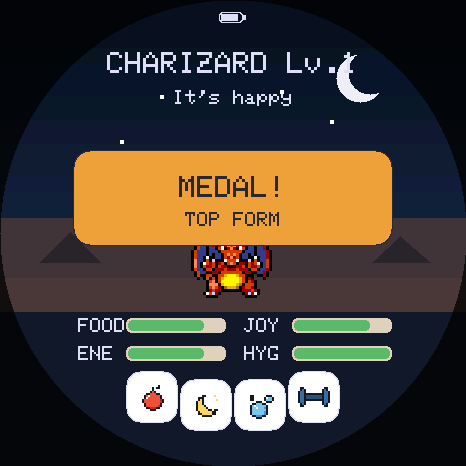
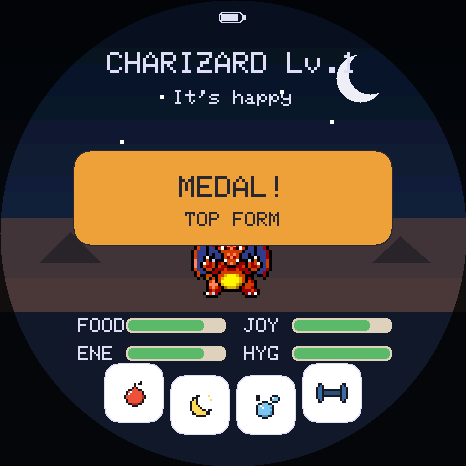
Fix the wake button and space the home row out
The bath icon had become the wake-up button. Dropping the ball icon last
commit shifted every index down by one, and drawButtons() still read
`i != 2` meaning LIGHT -- which is now the BATH. So while the pet slept
the bath was the only icon drawn lit, and its handler had no sleep guard,
so tapping it really did start a bath instead of waking anything.

The indices are named now (BTN_FOOD/LIGHT/BATH/TRAIN) and both the draw
path and the tap path ask one predicate, uiButtonDisabled(), so a greyed
button can never still be tappable and the greying can never point at a
different icon than the handler does. hit_test asserts the light is the
only live icon asleep, and that it wakes the pet; putting the literal 2
back fails five assertions.

The icons also go 52x52 -> 60x60 and spread from 54 px apart to 66, still
following the panel arc (y = 406 - dx^2/729) and clearing the bezel: the
outermost corner lands at radius 229.7 against the 233 the round display
gives. touch_test now asks uiButtonAt() where the dumbbell is rather than
hardcoding a coordinate that moves every time the row is retouched.

Changed region(s): [[0.2103, 0.7811, 0.7811, 0.9313]]

diff --git a/tools/emu/tests/hit_test.cpp b/tools/emu/tests/hit_test.cpp
@@ -32,6 +32,11 @@ int btlCellIndexAt(int16_t x, int16_t y);
 void partyButtonRects(int *boxTop, int *boxBot, int *closeTop, int *closeBot);
 void uiButtonHeights(int *out, int max, int *n);
 void gymHeaderRects(int *pillTop, int *pillBot, int *rowTop);
+int uiSleepButton(int *cx, int *cy);
+bool uiButtonDisabled(int i);
+void uiButtonAt(int i, int *cx, int *cy, int *half);
+extern Pet pet;
+void onTap(int16_t x, int16_t y);
 
 static int bad=0;
 static void ck(bool ok,const char*w){printf("%s  %s\n",ok?"PASS":"FAIL",w); if(!ok)bad++;}
@@ -134,6 +139,54 @@ int main(){
     gymHeaderRects(&pt, &pb, &rt);
     ck(pb < rt, "the gym difficulty pill does not sit on the first leader row");
     printf("      pill %d..%d, first row at %d\n", pt, pb, rt);
+  }
+
+  // While the pet sleeps only ONE home icon works, and it must be the LIGHT.
+  // Removing the ball icon shifted every index by one and left drawButtons()
+  // lighting index 2, which had become the BATH -- so the wash button looked
+  // like the wake-up button.
+  {
+    battleOpen = false;        // the battle above owns every tap until it closes
+    const int BTN_LIGHT_IDX = uiSleepButton(nullptr, nullptr);
+    int lx = 0, ly = 0;
+    uiSleepButton(&lx, &ly);
+    if (pet.awaitingStarter()) pet.chooseStarter(4);
+    if (pet.isEgg()) pet.dbgHatchAs(6, false);
+    while (pet.hasLearnOffer()) pet.declineLearn();
+    if (!pet.sleeping) pet.toggleLight();
+    ck(pet.sleeping, "the pet is asleep");
+    // the bath icon must NOT wake it
+    int bx = 0, by = 0;
+    uiButtonAt(2, &bx, &by, nullptr);
+    onTap((int16_t)bx, (int16_t)by);
+    ck(pet.sleeping, "the bath icon does not wake a sleeping pet");
+    // and what is drawn greyed is exactly what is refused: one answer, so the
+    // dimming can never point at a different icon than the tap handler does
+    bool grey[4];
+    for (int i = 0; i < 4; i++) grey[i] = uiButtonDisabled(i);
+    ck(!grey[BTN_LIGHT_IDX] && grey[0] && grey[2] && grey[3],
+       "and it is the only icon drawn lit while asleep");
+
+    // the light icon must
+    onTap((int16_t)lx, (int16_t)ly);
+    ck(!pet.sleeping, "the light icon does");
+    for (int i = 0; i < 4; i++)
+      if (uiButtonDisabled(i)) bad++, printf("FAIL  icon %d still greyed awake\n", i);
+    ck(true, "and awake, every icon is live again");
+  }
+
+  // the home icons must not overlap each other now that they are bigger
+  {
+    int worst = 9999;
+    for (int i = 0; i + 1 < 4; i++) {
+      int ax, ay, ah, bx2, by2, bh;
+      uiButtonAt(i, &ax, &ay, &ah);
+      uiButtonAt(i + 1, &bx2, &by2, &bh);
+      int gap = (bx2 - bh) - (ax + ah);
+      if (gap < worst) worst = gap;
+    }
+    printf("      smallest gap between home icons: %d px\n", worst);
+    ck(worst >= 0, "the home icons do not overlap");
   }
 
   printf("%s\n", bad?"FAILURES":"all good");

diff --git a/tools/emu/tests/touch_test.cpp b/tools/emu/tests/touch_test.cpp
@@ -83,6 +83,8 @@ static void click(int x, int y) {
   pump(3);                       // finger up: gesture resolves as a tap
 }
 
+void uiButtonAt(int i, int *cx, int *cy, int *half);
+
 int main(int argc, char **argv) {
   if (argc > 1) emuSetTimeScale((uint32_t)atoi(argv[1]));
   printf("--- time scale x%u ---\n", emuTimeScale());
@@ -134,7 +136,8 @@ int main(int argc, char **argv) {
   // cheap early attacks: a level 1 creature now actually has things to learn.
   while (pet.hasLearnOffer()) pet.declineLearn();
   pump(2);
-  click(314, 397);                       // the dumbbell, now the 4th of 4
+  int tbx, tby; uiButtonAt(3, &tbx, &tby, nullptr);   // ask, do not hardcode:
+  click(tbx, tby);                       // the dumbbell, the 4th of 4
   if (!trainOpen) { printf("FAIL: train icon did not open the submenu\n"); return 1; }
   printf("PASS: 5th icon opens the training submenu\n");
 
@@ -143,13 +146,13 @@ int main(int argc, char **argv) {
   printf("PASS: STRENGTH routes to the punching bag\n");
   sackOpen = false;
 
-  click(314, 397);
+  click(tbx, tby);
   click(233, 242);                       // row 1 == SPEED == TRAIN_ROW_Y(1)+28
   if (!spdOpen) { printf("FAIL: SPEED row did not start the reaction test\n"); return 1; }
   printf("PASS: SPEED routes to the reaction test\n");
   spdOpen = false;
 
-  click(314, 397);
+  click(tbx, tby);
   click(233, 306);                       // row 2 == DEFENCE -> the ball game
   if (!gameOpen) { printf("FAIL: DEFENCE row did not start the ball game\n"); return 1; }
   printf("PASS: DEFENCE routes to the ball game\n");

diff --git a/README.md b/README.md
@@ -3,7 +3,7 @@
 [![Flash in browser](https://img.shields.io/badge/flash-in%20browser-FF6B00?logo=googlechrome&logoColor=white)](https://dylanpdao.github.io/TamaPoke/web/)
 [![MakerWorld](https://img.shields.io/badge/MakerWorld-3D%20case-00AE42?logo=bambulab&logoColor=white)](https://makerworld.com/es/models/2937822-tamapoke-a-pokemon-pokeball-tamagotchi)
 ![Board](https://img.shields.io/badge/board-ESP32--S3%20round%20AMOLED-E7352C?logo=espressif&logoColor=white)
-![Firmware](https://img.shields.io/badge/firmware-v2.5-8A2BE2)
+![Firmware](https://img.shields.io/badge/firmware-v2.6-8A2BE2)
 ![Code](https://img.shields.io/badge/code-MIT-blue)
 ![Languages](https://img.shields.io/badge/languages-6-FFCB05)
 [![Stars](https://img.shields.io/github/stars/DylanPDao/TamaPoke?style=flat&logo=github&color=yellow)](https://github.com/DylanPDao/TamaPoke/stargazers)
